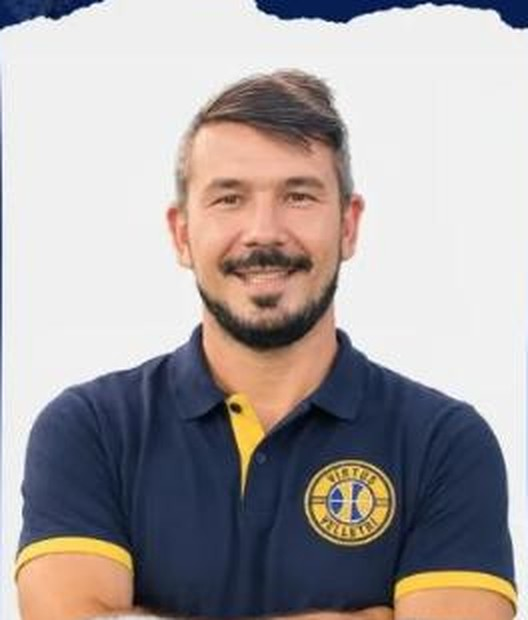
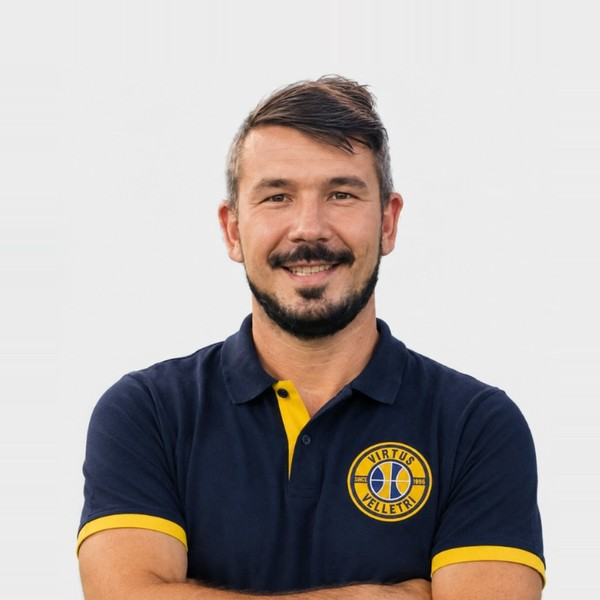
DR1 Smit Roma-Virtus 85-71: tabellino, galleria, articolo, classifica; foto coach ricentrate

diff --git a/content/news/2026-10-18-dr1-sconfitta-smit-roma.md b/content/news/2026-10-18-dr1-sconfitta-smit-roma.md
@@ -1,0 +1,41 @@
+---
+title: "DR1, a Roma non basta una buona prova: Smit Roma Centro vince 85-71"
+date: "2026-10-18"
+description: "Sconfitta a testa alta per la Virtus Velletri sul campo della Smit Roma Centro: 85-71 dopo due quarti in vantaggio, poi il blackout del terzo periodo."
+image: "/images/news/dr1-sconfitta-smit-roma.jpg"
+category: "dr1"
+featured: true
+showImage: true
+hideImageDownload: true
+buttons:
+  - { label: "Calendario e risultati", link: "/calendario/dr1" }
+  - { label: "Galleria della partita", link: "/gallery/2026-27/dr1-vs-smit-roma" }
+---
+
+**Non basta una buona prova a Roma.** 💪
+
+La DR1 cade sul campo della **Smit Roma Centro per 85-71** al termine di una partita battagliera e intensa. I nostri ragazzi hanno lottato su ogni pallone e hanno fornito una prova dai due volti.
+
+## La partita
+
+Nei primi due quarti una difesa attenta e aggressiva tiene la Virtus avanti. Il primo periodo si chiude **16-13** con **Marinelli** protagonista (6 punti tra liberi e canestri dall'area) e un ottimo 5 su 6 ai liberi. Nel secondo quarto ci sono diversi ribaltamenti: **Filippo Locati** e **Borro** firmano 7 punti a testa e i gialloblu vanno all'intervallo avanti **38-32**.
+
+Nella ripresa la partita cambia. Troppi canestri facili concessi agli avversari e la Smit, spinta da sei triple, mette a segno **34 punti in un solo quarto**: un break di 14-3 porta il punteggio sul 66-55. **Di Leo** prova a tenere a galla la squadra con 12 punti nel periodo e nove dall'arco, ma il **blackout del terzo quarto** si rivela fatale.
+
+Nell'ultimo periodo i padroni di casa sono bravi a sfruttare i momenti chiave, ad allungare fino al 73-62 e a respingere ogni tentativo di rimonta (19-16 il parziale finale).
+
+Incassiamo il risultato a testa alta: ci portiamo a casa la grinta vista in campo nei primi 25 minuti e gli spunti su cui continuare a lavorare in settimana con coach Mei. 💛💙
+
+## Il tabellino
+
+**Smit Roma Centro 85 – Virtus Velletri 71**
+
+Parziali: 13-16, 19-22, 34-17, 19-16
+
+**Virtus Velletri:** Federico Podeschi 0, Andrea Borro 10, Raffaele Sica 5, Filippo Locati 14, Lorenzo Marinelli 10, Alessandro Di Leo 19, Tommaso Salvatori 0, Luca Battista 6, Carmine Nardi 3, Fehmi Abassi 4, Valerio Nardini 0, Tommaso Locati 0.
+
+**Allenatore:** Luca Mei
+
+Prossimo impegno: sabato 24 ottobre alle 18:30 al Polivalente, contro l'APDB Roma. Vi aspettiamo numerosi!
+
+Forza Virtus!

diff --git a/content/standings/dr1.md b/content/standings/dr1.md
@@ -2,17 +2,17 @@
 title: Divisione Regionale 1
 team_slug: dr1
 table:
-  - { rank: 1, team: "Stelle Marine", points: 4, played: 2, won: 2, lost: 0 }
-  - { rank: 2, team: "Smit Roma", points: 4, played: 2, won: 2, lost: 0 }
-  - { rank: 3, team: "Virtus Velletri", points: 2, played: 1, won: 1, lost: 0 }
-  - { rank: 4, team: "Basket Palestrina 1962", points: 2, played: 1, won: 1, lost: 0 }
-  - { rank: 5, team: "S.Anna Morena", points: 2, played: 1, won: 1, lost: 0 }
-  - { rank: 6, team: "Cinecittà Polaris", points: 2, played: 2, won: 1, lost: 1 }
-  - { rank: 7, team: "Basket Genzano", points: 2, played: 2, won: 1, lost: 1 }
-  - { rank: 8, team: "Casilino 23", points: 2, played: 2, won: 1, lost: 1 }
-  - { rank: 9, team: "St. Charles", points: 0, played: 1, won: 0, lost: 1 }
-  - { rank: 10, team: "Albano Basket Club", points: 0, played: 2, won: 0, lost: 2 }
-  - { rank: 11, team: "Club Marino Lions", points: 0, played: 1, won: 0, lost: 1 }
-  - { rank: 12, team: "APDB", points: 0, played: 1, won: 0, lost: 1 }
-  - { rank: 13, team: "Olimpia Roma", points: 0, played: 2, won: 0, lost: 2 }
+  - { rank: 1, team: "Stelle Marine", points: 6, played: 3, won: 3, lost: 0 }
+  - { rank: 2, team: "Smit Roma", points: 6, played: 3, won: 3, lost: 0 }
+  - { rank: 3, team: "Basket Palestrina 1962", points: 4, played: 2, won: 2, lost: 0 }
+  - { rank: 4, team: "Basket Genzano", points: 4, played: 3, won: 2, lost: 1 }
+  - { rank: 5, team: "Club Marino Lions", points: 2, played: 2, won: 1, lost: 1 }
+  - { rank: 6, team: "S.Anna Morena", points: 2, played: 2, won: 1, lost: 1 }
+  - { rank: 7, team: "St. Charles", points: 2, played: 3, won: 1, lost: 2 }
+  - { rank: 8, team: "Virtus Velletri", points: 2, played: 2, won: 1, lost: 1 }
+  - { rank: 9, team: "Albano Basket Club", points: 2, played: 3, won: 1, lost: 2 }
+  - { rank: 10, team: "Casilino 23", points: 2, played: 2, won: 1, lost: 1 }
+  - { rank: 11, team: "Cinecittà Polaris", points: 2, played: 3, won: 1, lost: 2 }
+  - { rank: 12, team: "APDB", points: 0, played: 3, won: 0, lost: 3 }
+  - { rank: 13, team: "Olimpia Roma", points: 0, played: 3, won: 0, lost: 3 }
 ---

diff --git a/content/matches/dr1.md b/content/matches/dr1.md
@@ -25,7 +25,27 @@ events:
       - { number: 23, name: "Fehmi Abassi", points: 10, starter: true }
       - { number: 24, name: "Valerio Nardini", points: 0 }
       - { number: 73, name: "Tommaso Locati", points: 0 }
-  - { title: "Smit Roma Centro vs Virtus Velletri", date: "2026-10-17", time: "18:00", location: "Impianto Tellene Via Claudio Villa Roma (Rm)", category: "DR1" }
+  - title: "Smit Roma Centro vs Virtus Velletri"
+    date: "2026-10-17"
+    time: "18:00"
+    location: "Impianto Tellene Via Claudio Villa Roma (Rm)"
+    category: "DR1"
+    score: "85-71"
+    quarters: "13-16, 19-22, 34-17, 19-16"
+    coach: "Luca Mei"
+    players:
+      - { number: 2, name: "Federico Podeschi", points: 0 }
+      - { number: 3, name: "Andrea Borro", points: 10 }
+      - { number: 9, name: "Raffaele Sica", points: 5, starter: true }
+      - { number: 12, name: "Filippo Locati", points: 14 }
+      - { number: 14, name: "Lorenzo Marinelli", points: 10, starter: true }
+      - { number: 15, name: "Alessandro Di Leo", points: 19, starter: true }
+      - { number: 16, name: "Tommaso Salvatori", points: 0 }
+      - { number: 17, name: "Luca Battista", points: 6 }
+      - { number: 20, name: "Carmine Nardi", points: 3, starter: true }
+      - { number: 23, name: "Fehmi Abassi", points: 4, starter: true }
+      - { number: 24, name: "Valerio Nardini", points: 0 }
+      - { number: 73, name: "Tommaso Locati", points: 0 }
   - { title: "Virtus Velletri vs APDB Roma", date: "2026-10-24", time: "18:30", location: "Palestra Polivalente Via Del Campo Sportivo Velletri (Rm)", category: "DR1" }
   - { title: "Basket Palestrina 1962 vs Virtus Velletri", date: "2026-11-01", time: "18:00", location: "Palaiaia Via Pedemontana Stella 223 Palestrina (Rm)", category: "DR1" }
   - { title: "Virtus Velletri vs Basket Genzano", date: "2026-11-07", time: "18:30", location: "Palestra Polivalente Via Del Campo Sportivo Velletri (Rm)", category: "DR1" }
